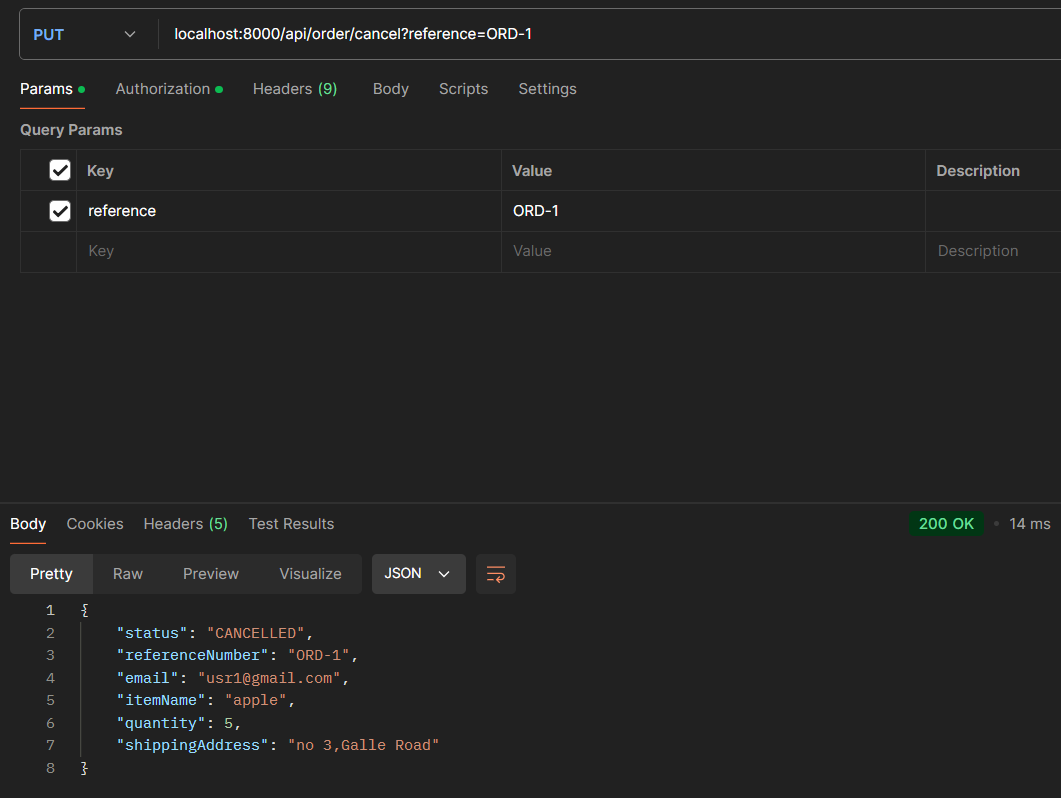
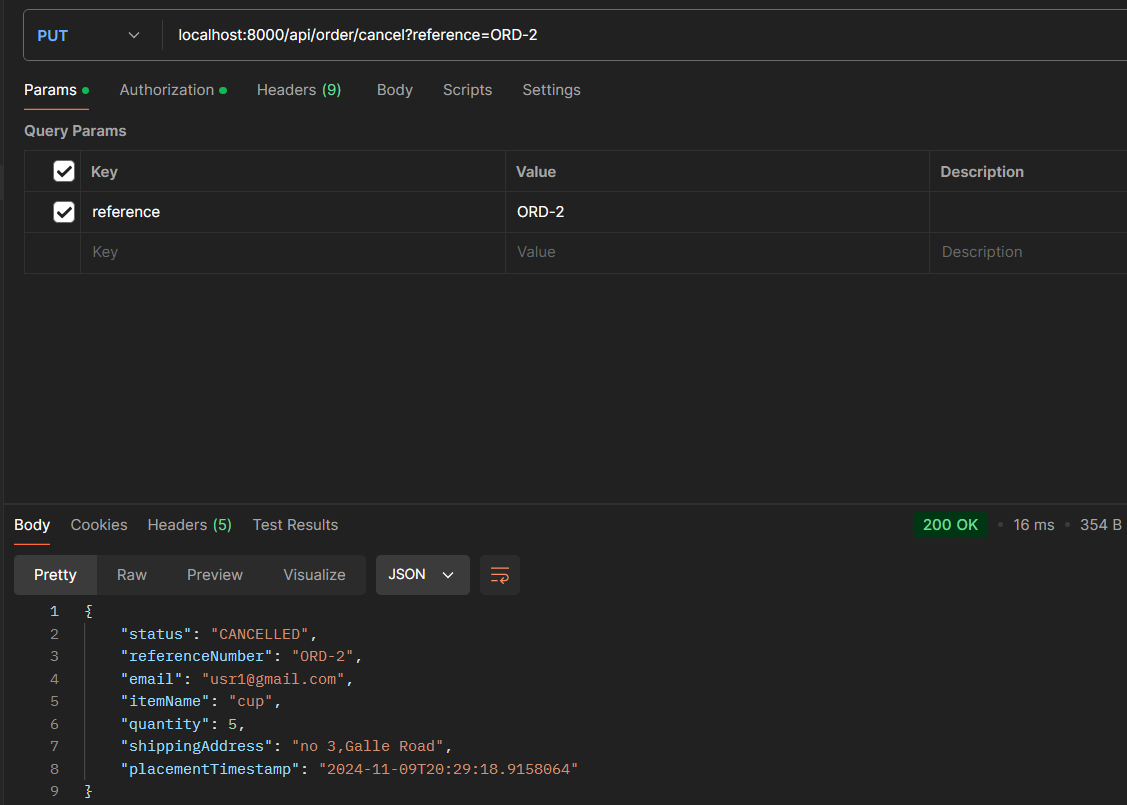
add timestamp

diff --git a/src/main/java/com/management/orders/components/Order.java b/src/main/java/com/management/orders/components/Order.java
@@ -1,10 +1,12 @@
 package com.management.orders.components;
 
 import com.fasterxml.jackson.annotation.JsonProperty;
+import java.time.LocalDateTime;
 
 public class Order {
     @JsonProperty("referenceNumber")
     private String referenceNumber;
+
     @JsonProperty("email")
     private String userEmail;
 
@@ -16,7 +18,11 @@ public class Order {
 
     @JsonProperty("shippingAddress")
     private String shippingAddress;
+
     private OrderStatus status = OrderStatus.NEW;
+
+    @JsonProperty("placementTimestamp")
+    private LocalDateTime placementTimestamp;
 
     public Order(String referenceNumber, String userEmail, String itemName, Integer quantity, String shippingAddress) {
         this.referenceNumber = referenceNumber;
@@ -24,6 +30,7 @@ public class Order {
         this.itemName = itemName;
         this.quantity = quantity;
         this.shippingAddress = shippingAddress;
+        this.placementTimestamp = LocalDateTime.now(); // Set timestamp during creation
     }
 
     public String getReferenceNumber() {
@@ -72,5 +79,13 @@ public class Order {
 
     public void setStatus(OrderStatus status) {
         this.status = status;
+    }
+
+    public LocalDateTime getPlacementTimestamp() {
+        return placementTimestamp;
+    }
+
+    public void setPlacementTimestamp(LocalDateTime placementTimestamp) {
+        this.placementTimestamp = placementTimestamp;
     }
 }

diff --git a/src/main/java/com/management/orders/OrdersApplication.java b/src/main/java/com/management/orders/OrdersApplication.java
@@ -15,7 +15,7 @@ public class OrdersApplication {
 	}
 
 	@EventListener
-	public void onApplicationReadyEvent() {
+	public void onApplicationReadyEvent(ApplicationReadyEvent event) {
 		System.out.println("************************");
 		System.out.println("*** Order API Ready ***");
 		System.out.println("************************");
